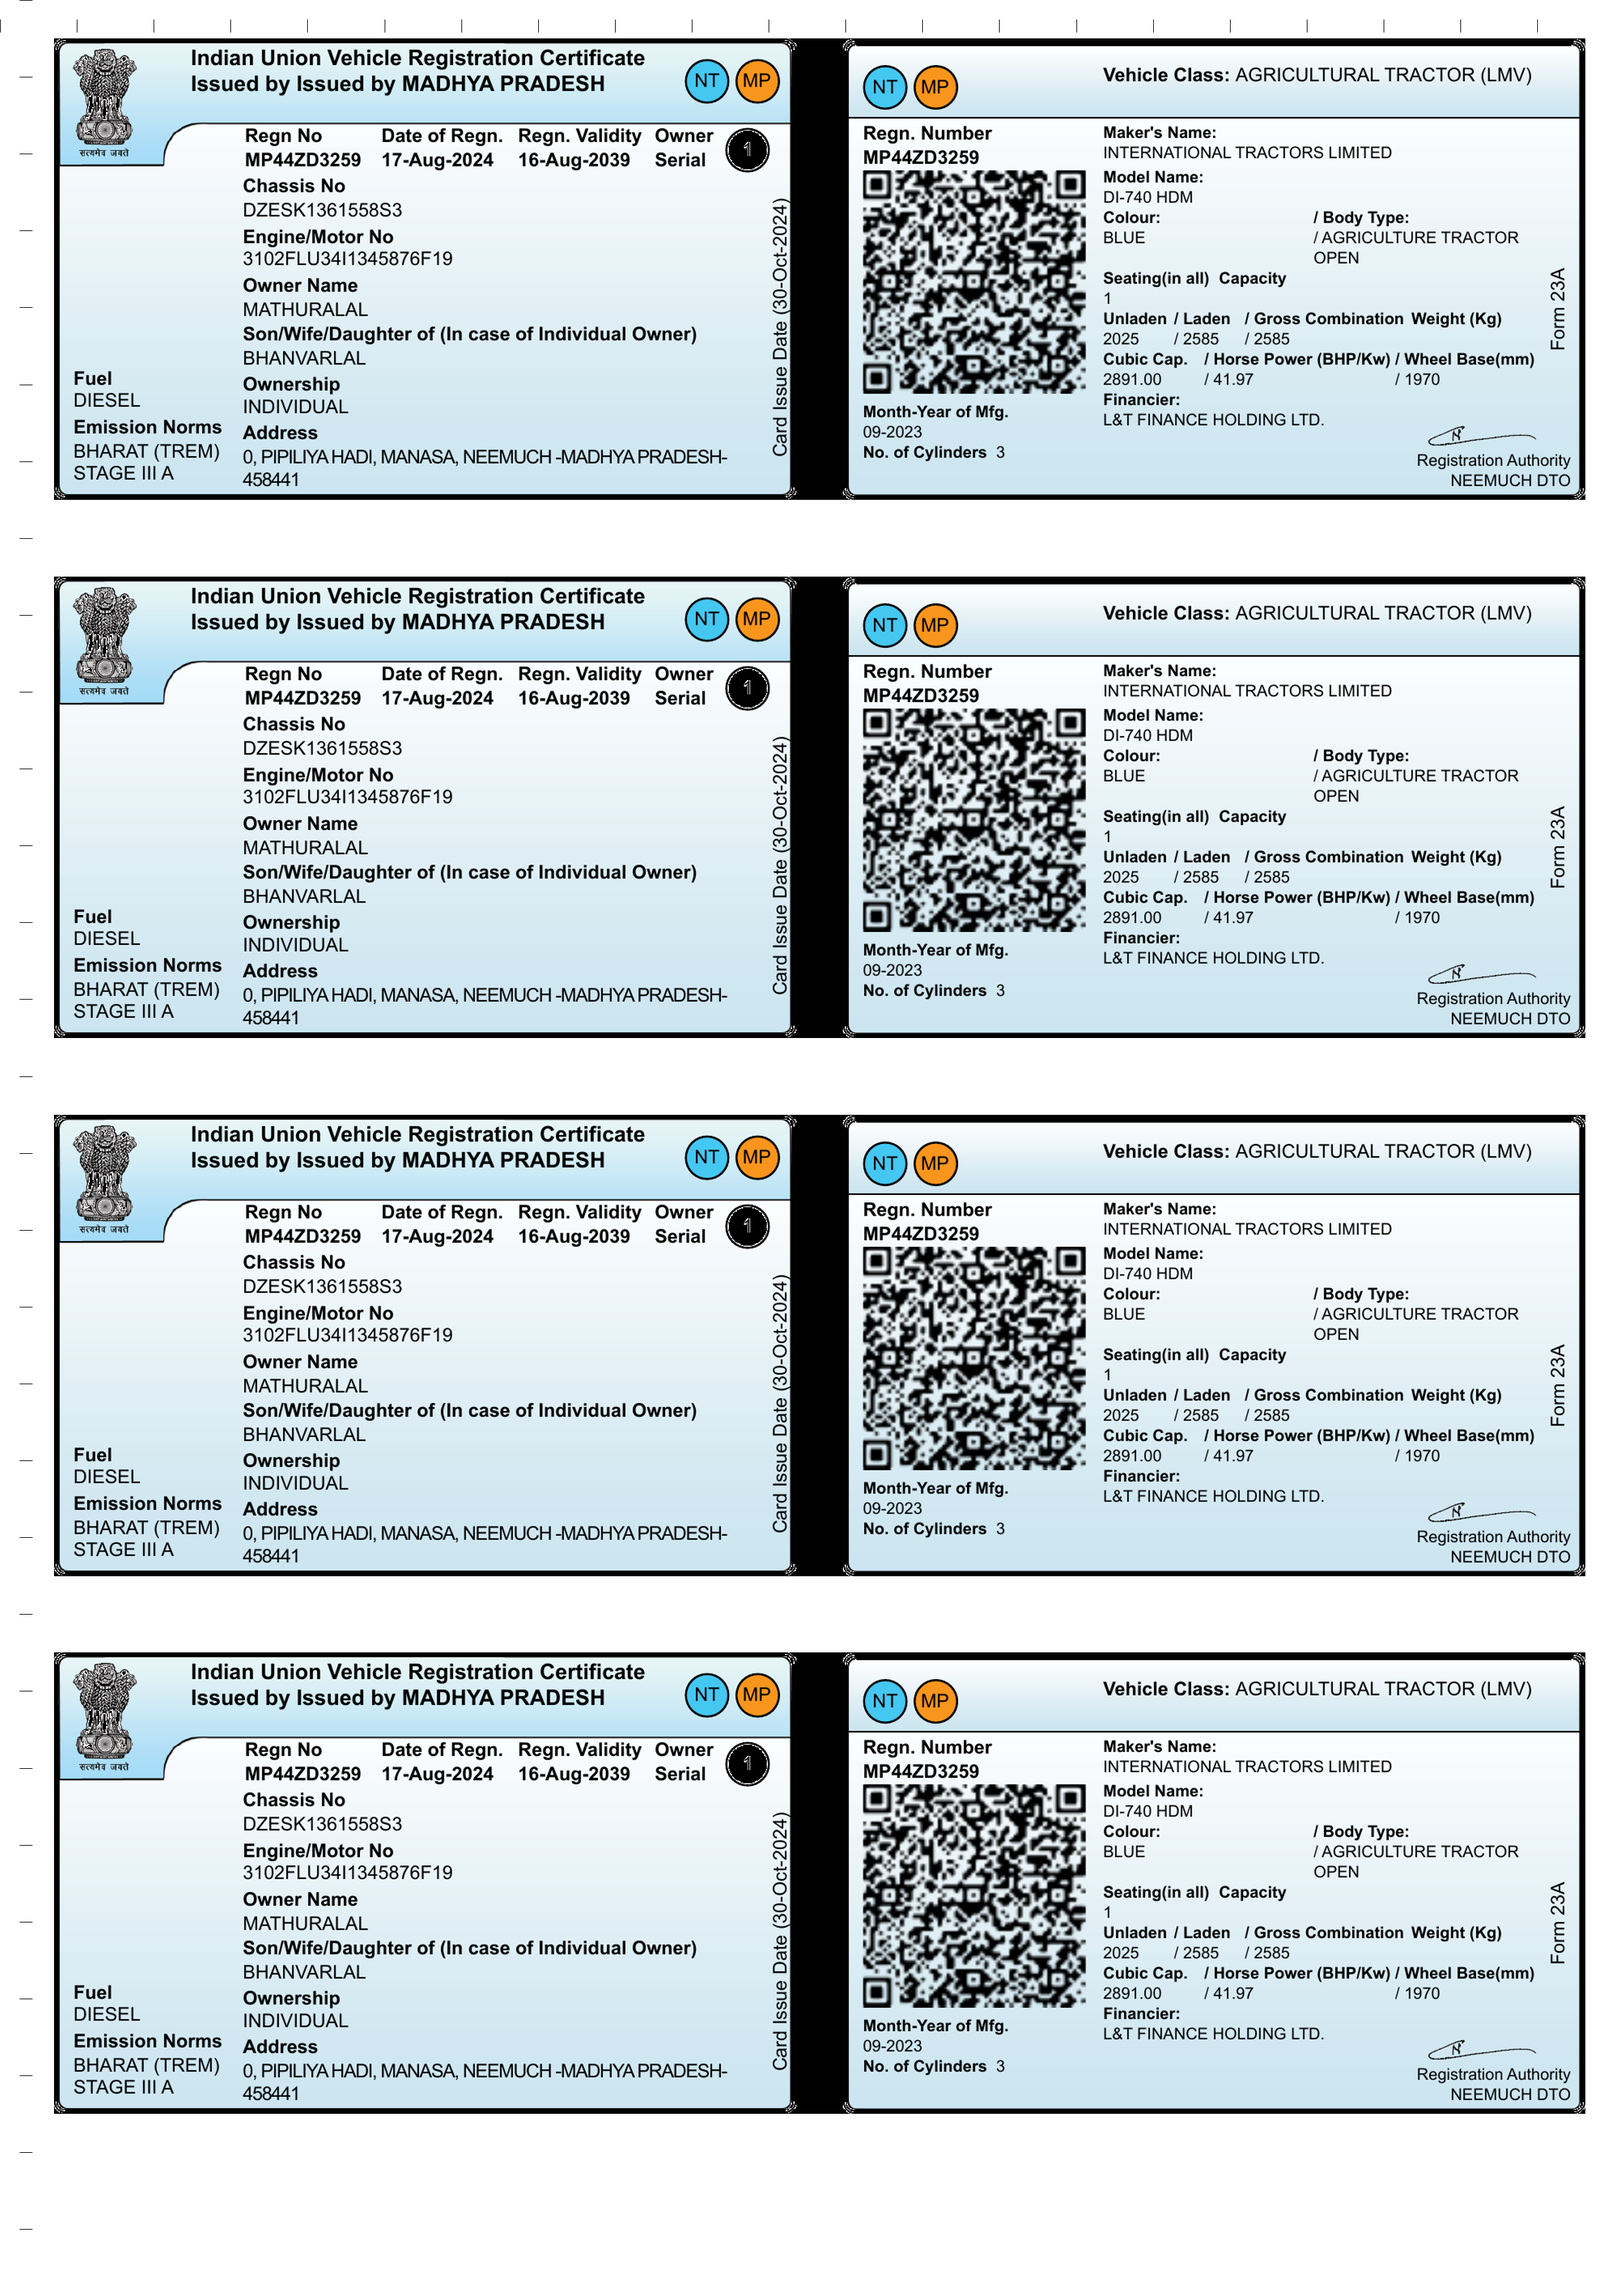
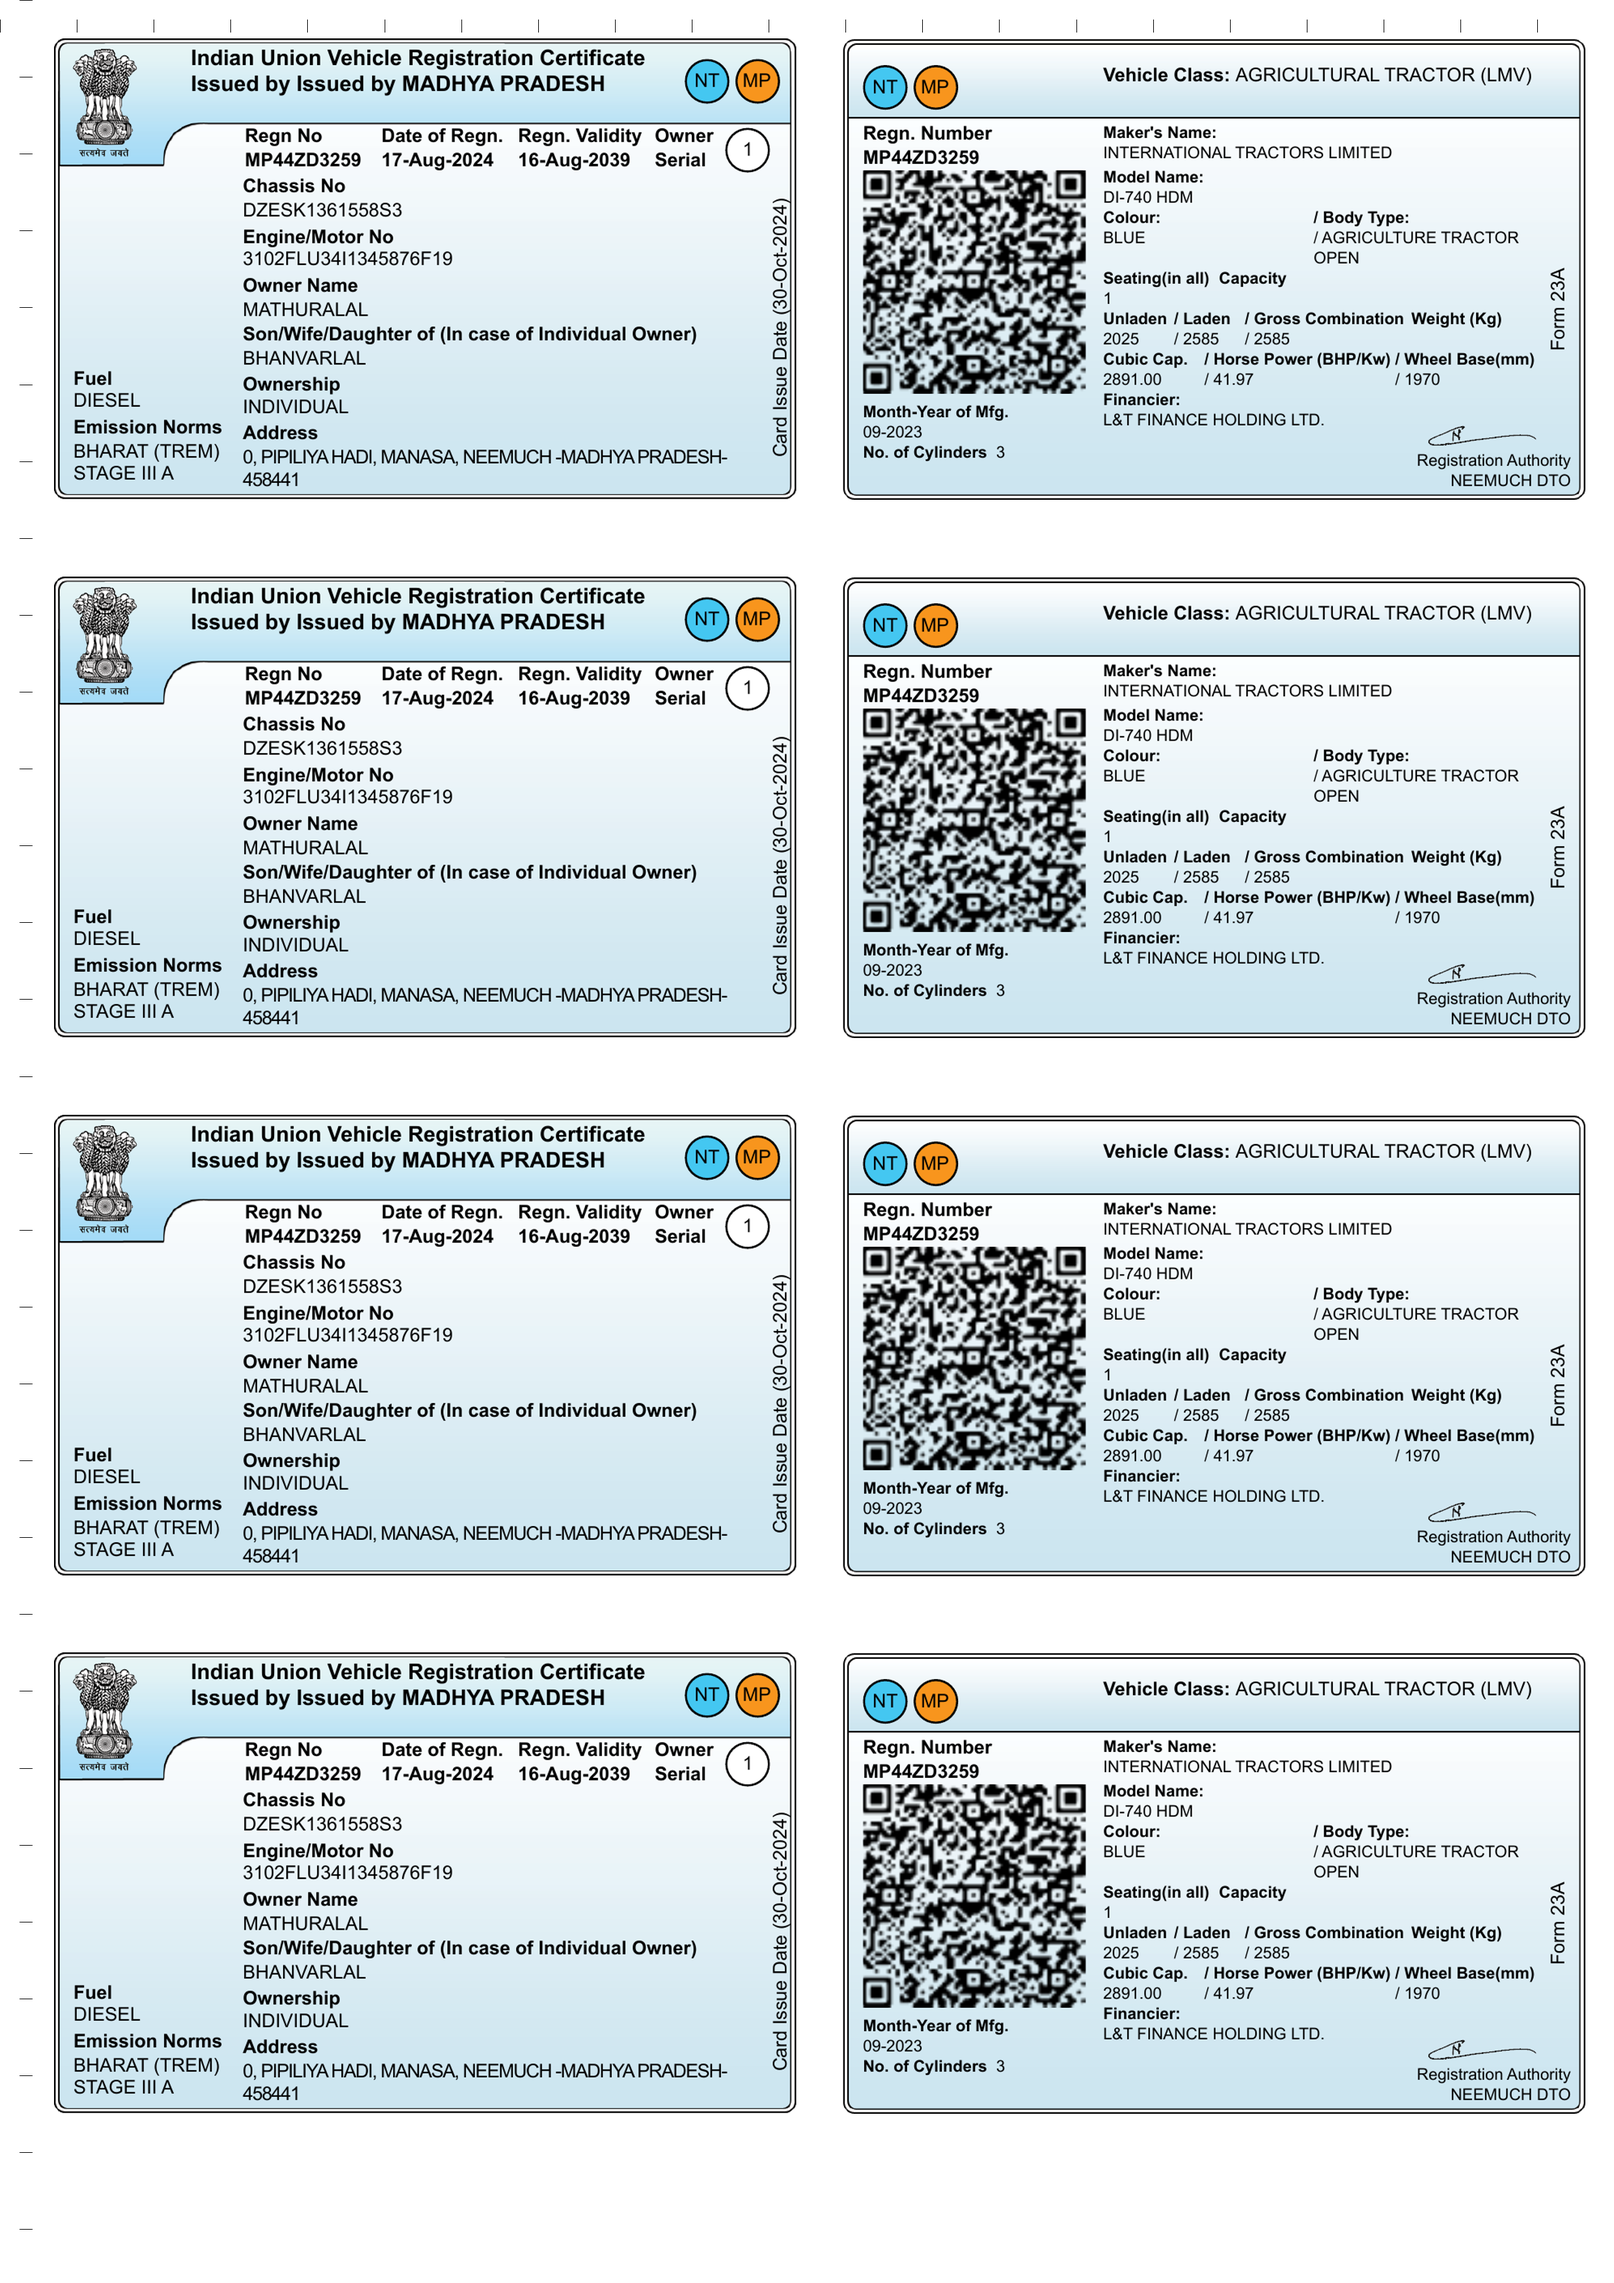
main-from-cropped-pngs.py working as intended

diff --git a/main-from-cropped-pngs.py b/main-from-cropped-pngs.py
@@ -105,7 +105,7 @@ for i in range(len(png_files)):
     # print(new_height)
     file_to_paste = file_to_paste.resize((new_width, new_height))
 
-    bg_image.paste(file_to_paste, box=(mm_to_pixel(7), mm_to_pixel(i*70+5)))
+    bg_image.paste(file_to_paste, box=(mm_to_pixel(7), mm_to_pixel(i*70+5)), mask=file_to_paste)
     print(f"Added '{png_files[i]}' in final the output")
     
 bg_image.save("output.png")
